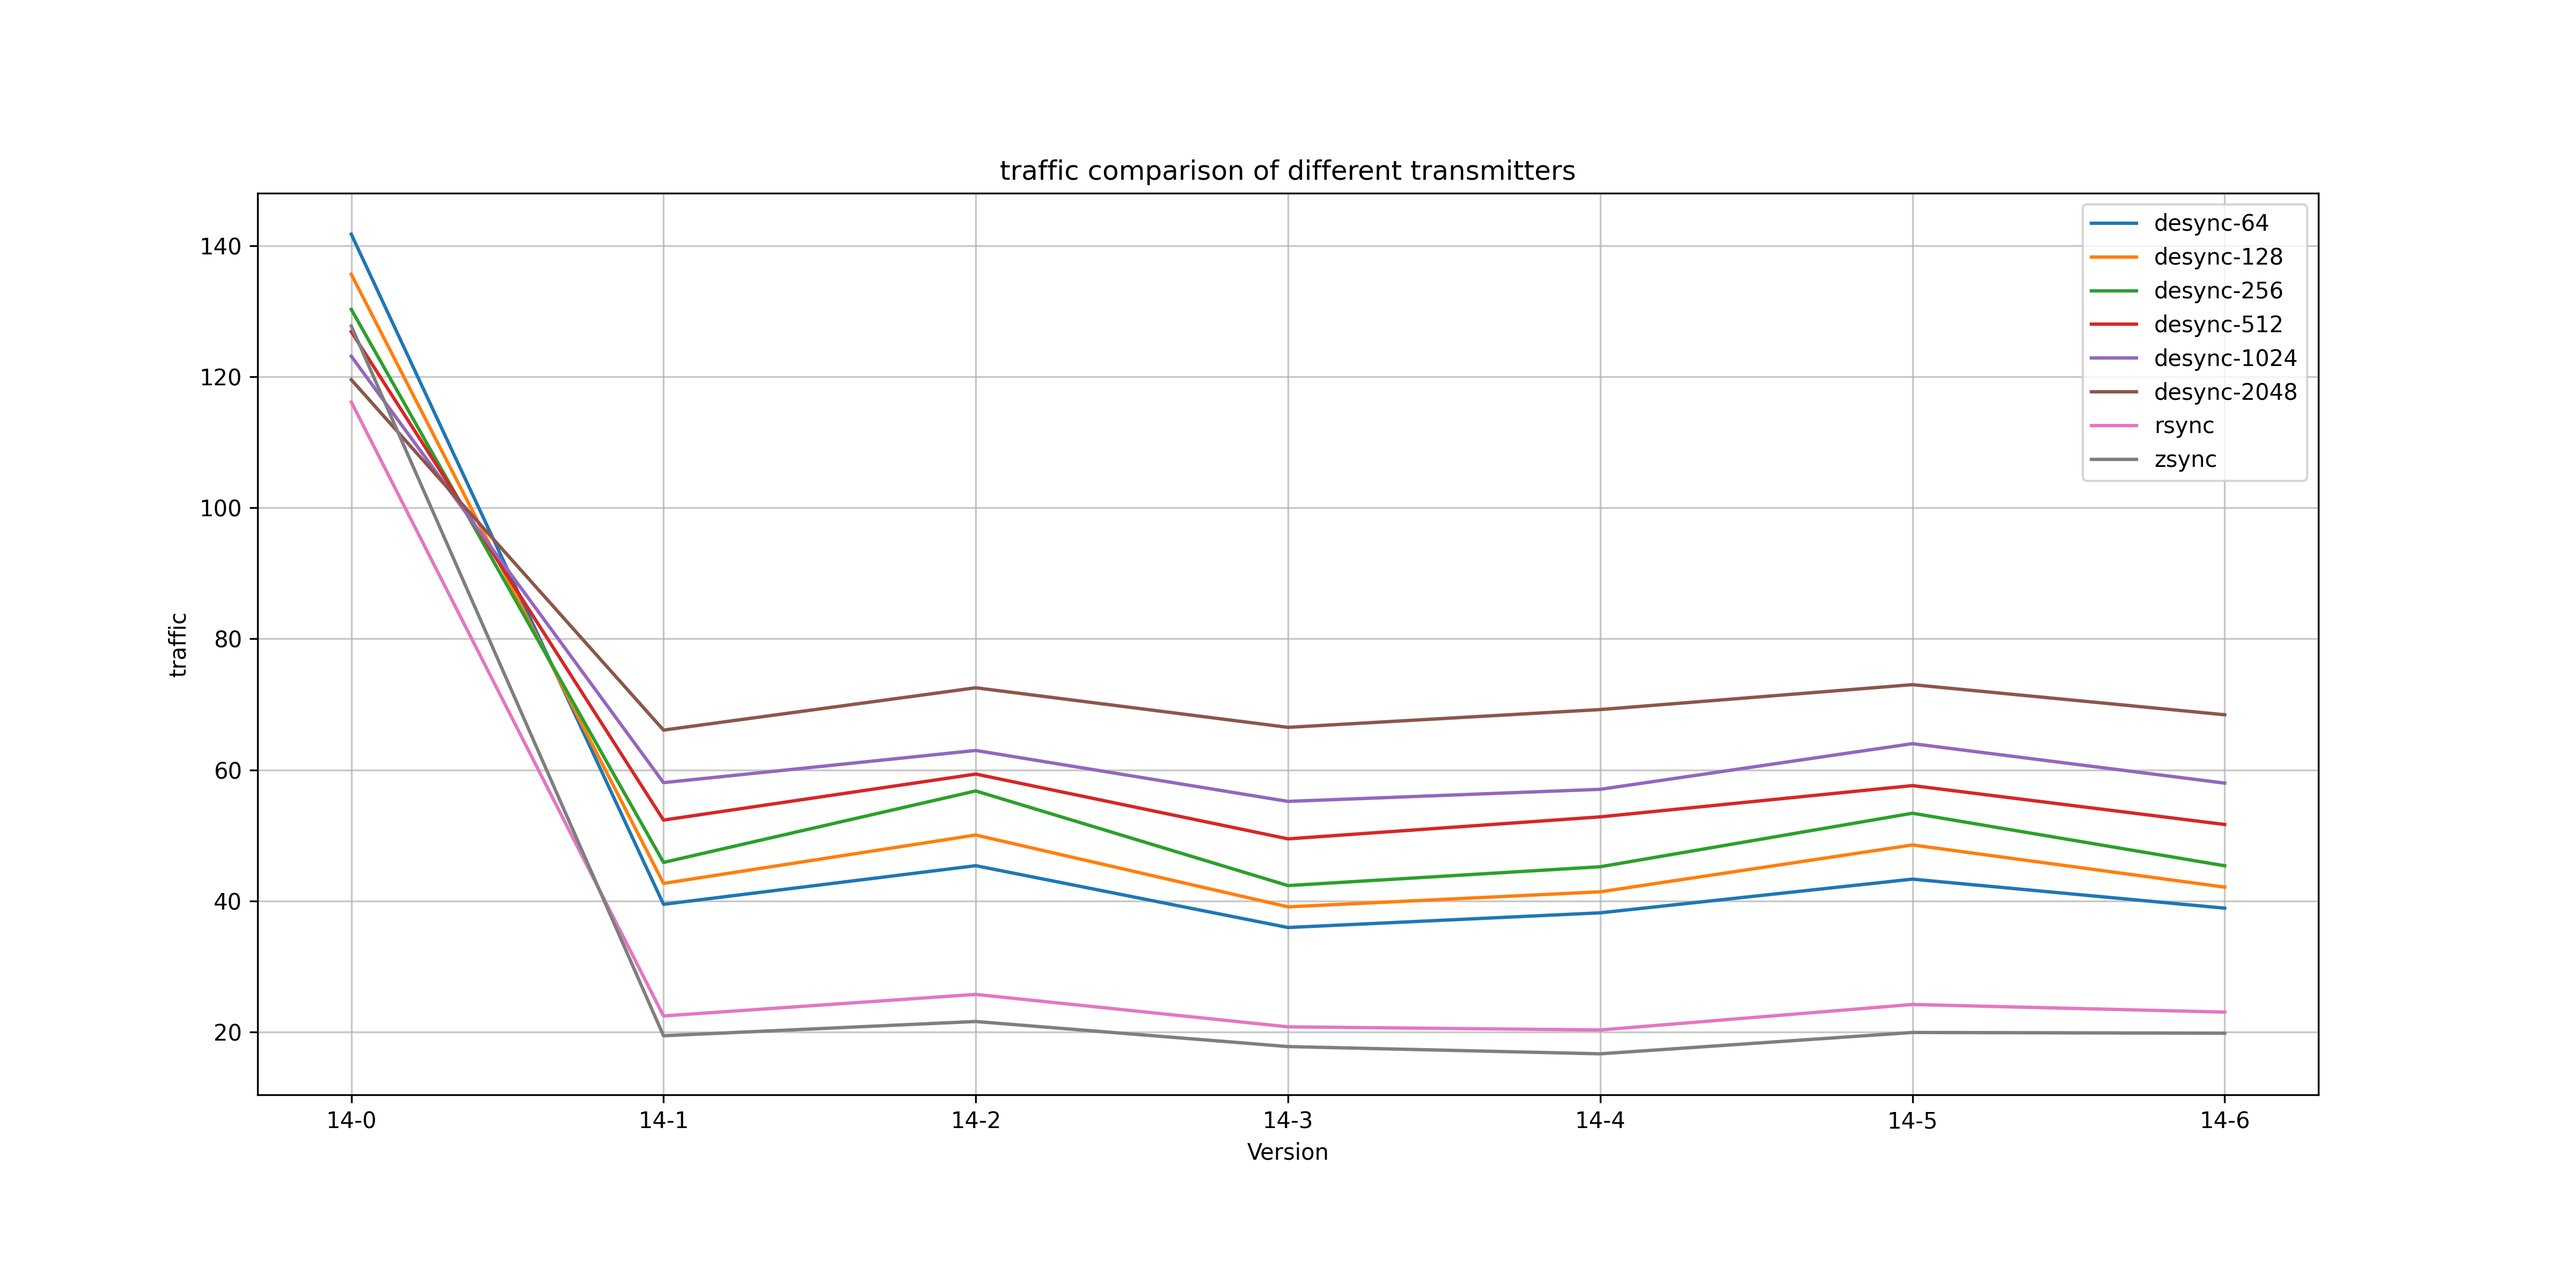
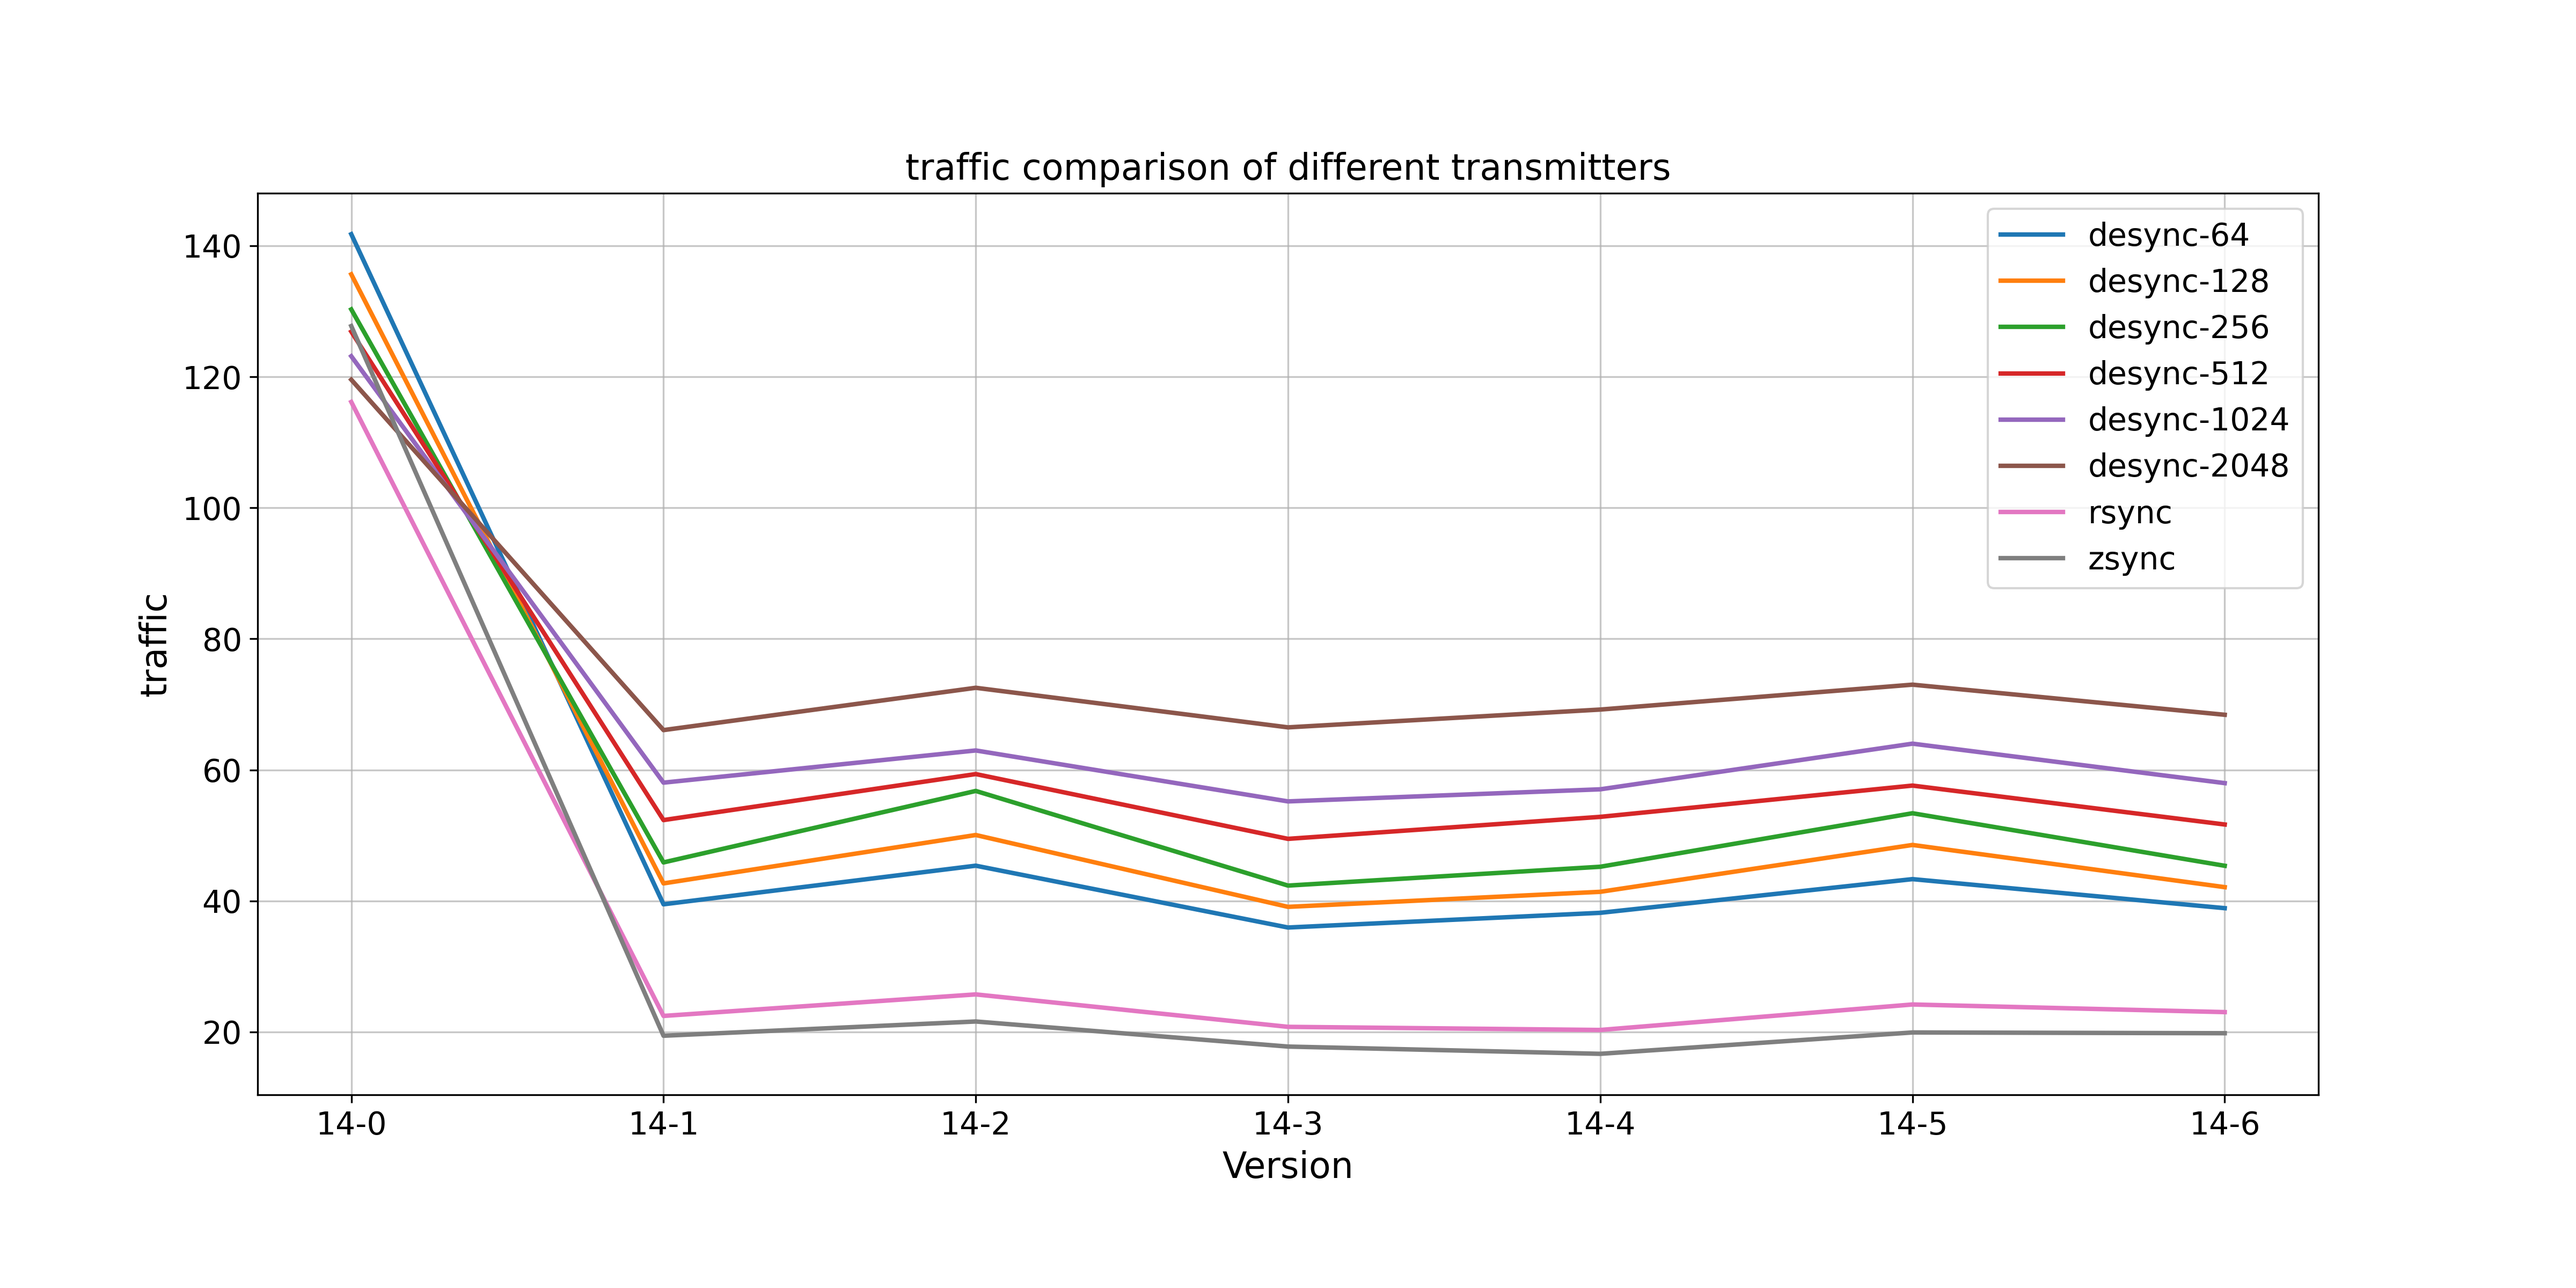
fix fontsize

diff --git a/util/plot.py b/util/plot.py
@@ -1,6 +1,7 @@
 import matplotlib.pyplot as plt
-from typing import Dict, List
+from typing import List
 from dataclasses import dataclass
+import yaml
 
 SCREEN_DPI = 300
 
@@ -9,6 +10,17 @@ SCREEN_DPI = 300
 class Subplot:
     name: str
     data: List[float]
+
+
+def load_plot_data(filename: str):
+    with open(filename, "r") as f:
+        subplots_data = yaml.load(f, Loader=yaml.BaseLoader)
+    subplots = []
+    for item in subplots_data:
+        subplots.append(
+            Subplot(name=item["name"], data=[float(value) for value in item["data"]])
+        )
+    return subplots
 
 
 def make_plot(
@@ -26,18 +38,21 @@ def make_plot(
     axes.spines[["top", "bottom", "left", "right"]].set_visible(True)
     axes.grid(which="minor", alpha=0.35)
     axes.grid(which="major", alpha=0.7)
-    axes.set_xlabel(xlabel)
-    axes.set_ylabel(ylabel)
-
-    axes.set_title(name)
+    axes.set_xlabel(xlabel, fontsize=16)
+    axes.set_ylabel(ylabel, fontsize=16)
+    axes.set_title(name, fontsize=16)
+    axes.tick_params(axis="both", which="major", labelsize=14)
 
     for subplot in data:
+        print(versions, subplot.data)
         axes.plot(
             versions,
             subplot.data,
             label=subplot.name,
+            linewidth=2,
         )
-    axes.legend()
+    axes.legend(fontsize=14)
+
     if plot_file is not None:
         figure.savefig(
             plot_file,
